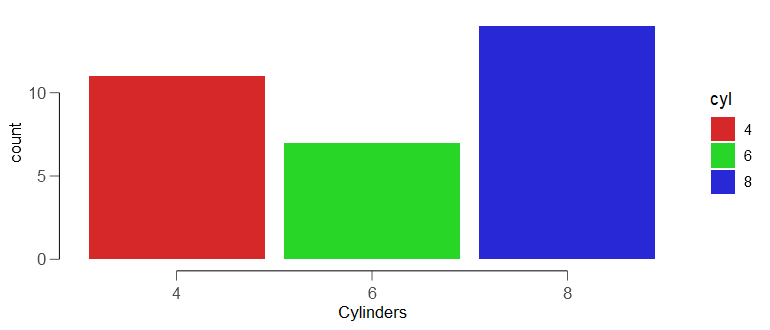
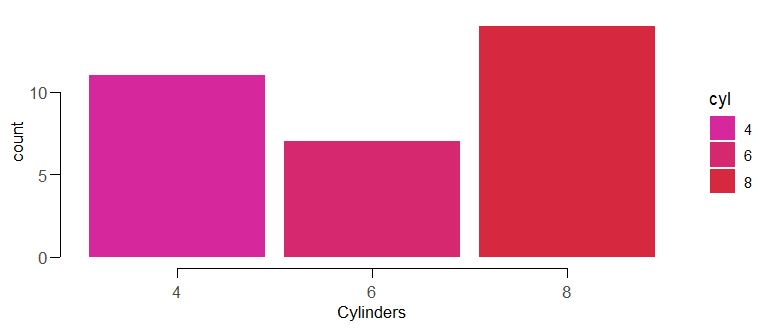
Use the analogous scheme for the README palette showcase
triadic from a saturated red seed is mathematically pure red/green/blue,
which reads as garish. analogous keeps the seed's character (magenta ->
pink -> red) while still being a qualitative scheme, so it is a better
headline example for the generator.

README.md regenerated with a full knit under R-4.5.3.

diff --git a/README.md b/README.md
@@ -1647,8 +1647,8 @@ names(pals)
 #>  [4] "shades"              "analogous"           "complementary"      
 #>  [7] "split_complementary" "triadic"             "tetradic"           
 #> [10] "spectral"
-pals$triadic
-#> [1] "#D62828" "#28D628" "#2828D6" "#ED8383" "#83ED83" "#8383ED"
+pals$analogous
+#> [1] "#D6289C" "#D6286E" "#D6283F" "#D63F28" "#D66E28" "#D69C28"
 
 kk_show_palettes(pals)
 ```
@@ -1664,9 +1664,9 @@ Pick a scheme and register it with `scheme =` — every discrete `kkplot` fill t
 
 
 ``` r
-set_plot_colors("#D62828", scheme = "triadic", n = 6)
+set_plot_colors("#D62828", scheme = "analogous", n = 6)
 kk_pal(3)
-#> [1] "#D62828" "#28D628" "#2828D6"
+#> [1] "#D6289C" "#D6286E" "#D6283F"
 
 kkplot(mtcars, aes(factor(cyl), fill = factor(cyl))) +
   geom_bar() +
@@ -1677,6 +1677,8 @@ kkplot(mtcars, aes(factor(cyl), fill = factor(cyl))) +
 <img src="man/figures/README-ex-genpal-set-1.png" alt="plot of chunk ex-genpal-set" width="75%" />
 <p class="caption">plot of chunk ex-genpal-set</p>
 </div>
+
+
 
 > **Note.** `set_plot_colors()` accepts **1 to 12** colours and errors clearly beyond that. With `scheme = NULL` (the default) your colours are registered exactly as given — the original behaviour is unchanged.
 